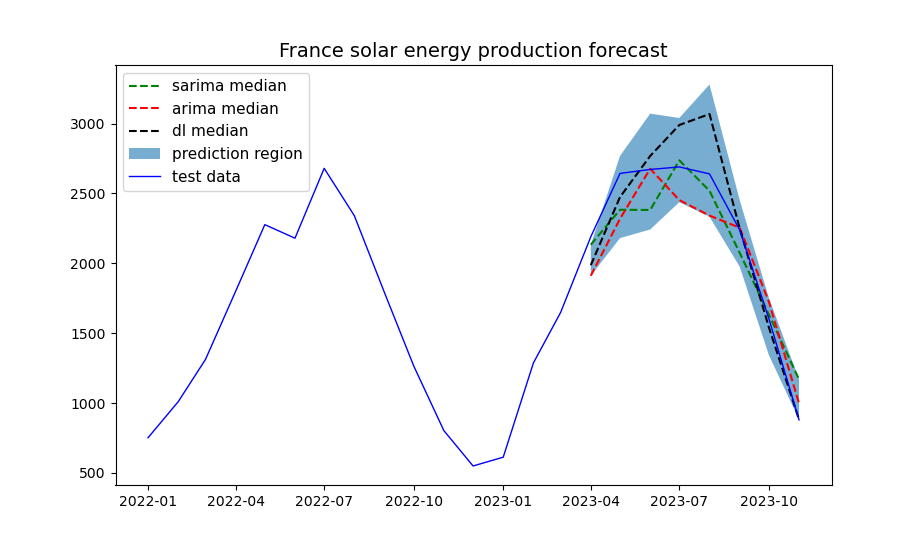
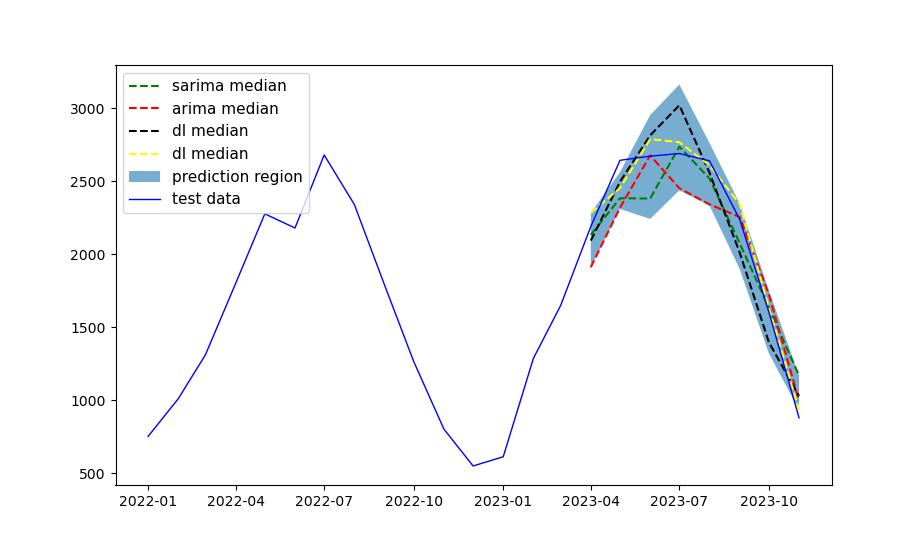
adding reconfigs

diff --git a/src/main.py b/src/main.py
@@ -3,7 +3,6 @@ from os.path import isfile, join
 from forecasting import (
     progressive_prediction,
     generate_csv_all,
-    generate_csv,
     generate_csv_area_chart,
 )
 from data_visualization import visualize_country
@@ -50,14 +49,17 @@ def individual_execution(countries):
     if option == 1:
         visualize_country(df, col_index, country)
     elif option == 2:
-        (result_sar, pred_sar) = progressive_prediction(
-            df, df.columns[col_index - 1], var.SARIMA
+        col = df.columns[col_index - 1]
+        (result_sarima, pred_sar) = progressive_prediction(df, col, None, var.SARIMA)
+        (result_arima, pred_ar) = progressive_prediction(df, col, None, var.ARIMA)
+        (result_dl, pred_dl) = progressive_prediction(df, col, None, var.DL)
+        (result_sarimax, pred_sarx) = progressive_prediction(
+            df, col, country, var.SARIMAX
         )
-        (result_ar, pred_ar) = progressive_prediction(
-            df, df.columns[col_index - 1], var.ARIMA
+        generate_csv_all(
+            result_sarima, result_arima, result_dl, result_sarimax, country, col
         )
-        generate_csv_all(result_sar, result_ar, country, df.columns[col_index - 1])
-        generate_csv_area_chart(pred_sar, pred_ar, country, df.columns[col_index - 1])
+        generate_csv_area_chart(pred_sar, pred_ar, pred_dl, pred_sarx, country, col)
     else:
         raise Exception("Please a valid option between 1 or 2")
 
@@ -66,10 +68,14 @@ def predict_all(countries):
     for country in countries:
         df = organize_table(country)
         for col in df.columns:
-            (result_sarima, pred_sar) = progressive_prediction(df, col, var.SARIMA)
-            (result_arima, pred_ar) = progressive_prediction(df, col, var.ARIMA)
-            (result_dl, pred_dl) = progressive_prediction(df, col, var.DL)
-            (result_sarimax, pred_sarx) = progressive_prediction(df, col, var.SARIMAX)
+            (result_sarima, pred_sar) = progressive_prediction(
+                df, col, None, var.SARIMA
+            )
+            (result_arima, pred_ar) = progressive_prediction(df, col, None, var.ARIMA)
+            (result_dl, pred_dl) = progressive_prediction(df, col, None, var.DL)
+            (result_sarimax, pred_sarx) = progressive_prediction(
+                df, col, country, var.SARIMAX
+            )
             generate_csv_all(
                 result_sarima, result_arima, result_dl, result_sarimax, country, col
             )

diff --git a/src/data_visualization.py b/src/data_visualization.py
@@ -55,7 +55,7 @@ def visualize_model_performance(country, energy):
         var.result_dir + "prediction_" + country + "_" + energy + "_all.csv",
         index_col=var.DATE,
     )
-    series.boxplot(column=[var.SARIMA, var.ARIMA, var.DL])
+    series.boxplot(column=[var.SARIMA, var.ARIMA, var.DL, var.SARIMAX])
     plt.title(
         country
         + " "
@@ -100,14 +100,20 @@ def visualize_pred_margin(country, energy):
     )
     df["arima_prediction"] = df["arima_prediction"].apply(lambda x: ast.literal_eval(x))
     df["dl_prediction"] = df["dl_prediction"].apply(lambda x: ast.literal_eval(x))
+    df["sarimax_prediction"] = df["sarimax_prediction"].apply(
+        lambda x: ast.literal_eval(x)
+    )
 
     df["s_mean"] = df["sarima_prediction"].apply(firstIteration)
     df["a_mean"] = df["arima_prediction"].apply(firstIteration)
     df["d_mean"] = df["dl_prediction"].apply(firstIteration)
+    df["sx_mean"] = df["sarimax_prediction"].apply(firstIteration)
+
     df["merged"] = df.apply(
         lambda row: row["arima_prediction"]
         + row["sarima_prediction"]
-        + row["dl_prediction"],
+        + row["dl_prediction"]
+        + row["sarimax_prediction"],
         axis=1,
     )
     df["min_range"] = df["merged"].apply(min)
@@ -117,6 +123,7 @@ def visualize_pred_margin(country, energy):
     )
     plt.plot(df.index, df["a_mean"], color="red", linestyle="--", label="arima median")
     plt.plot(df.index, df["d_mean"], color="black", linestyle="--", label="dl median")
+    plt.plot(df.index, df["sx_mean"], color="yellow", linestyle="--", label="dl median")
 
     plt.fill_between(
         df.index, df["max_range"], df["min_range"], alpha=0.6, label="prediction region"
@@ -129,7 +136,7 @@ def visualize_pred_margin(country, energy):
         label="test data",
     )
     plt.legend(fontsize=11, loc="upper left")
-    plt.title(country + " " + energy + " energy production forecast", fontsize=14)
+    # plt.title(country + " " + energy + " energy production forecast", fontsize=14)
     plt.show()
 
 

diff --git a/src/forecasting.py b/src/forecasting.py
@@ -148,9 +148,6 @@ def sarimax_prediction(series, test_size, exogenous):
 
 
 def dl_forecast(series, test_size):
-    # series = pd.DataFrame(series, columns=["demand"])
-    print(series)
-
     bound = len(series) - test_size
     train = series[:bound]
     test = series[bound:]
@@ -183,7 +180,7 @@ def dl_forecast(series, test_size):
     return test
 
 
-def progressive_prediction(df, energy, pred_algo):
+def progressive_prediction(df, energy, country, pred_algo):
     target = df[energy].drop(df[df[energy] == 0].index)
     numberOfPredictions = 6
     start = int(len(target) - numberOfPredictions)
@@ -196,7 +193,8 @@ def progressive_prediction(df, energy, pred_algo):
         elif pred_algo == var.ARIMA:
             (test, pred, order) = arima_prediction(target[:i], predictionCount)
         elif pred_algo == var.SARIMAX:
-            (test, pred, order) = sarimax_prediction(target[:i], predictionCount)
+            exo = organize_rebasement(country, energy, max(target[:i].index))
+            (test, pred, order) = sarimax_prediction(target[:i], predictionCount, exo)
         else:
             dl_df = pd.DataFrame(target[:i], columns=[energy])
             dl_out = dl_forecast(dl_df, predictionCount)
